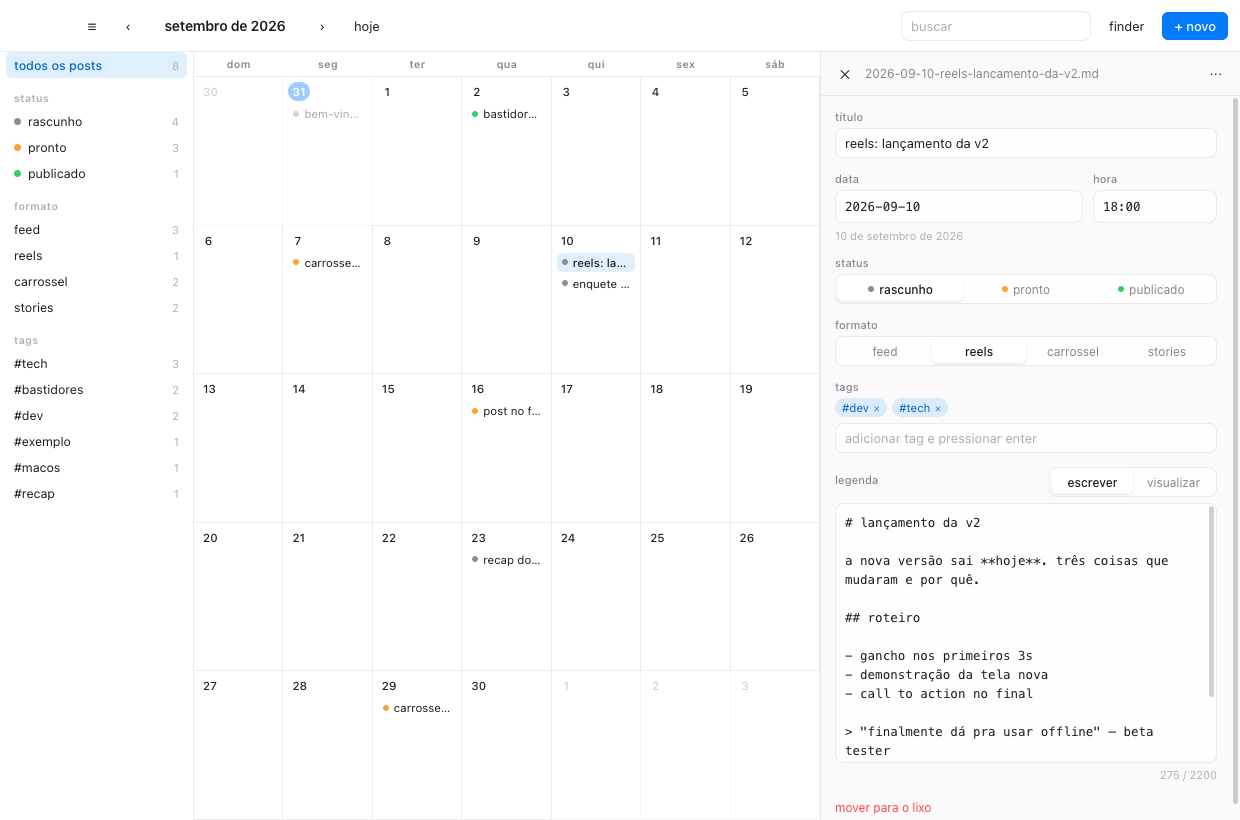
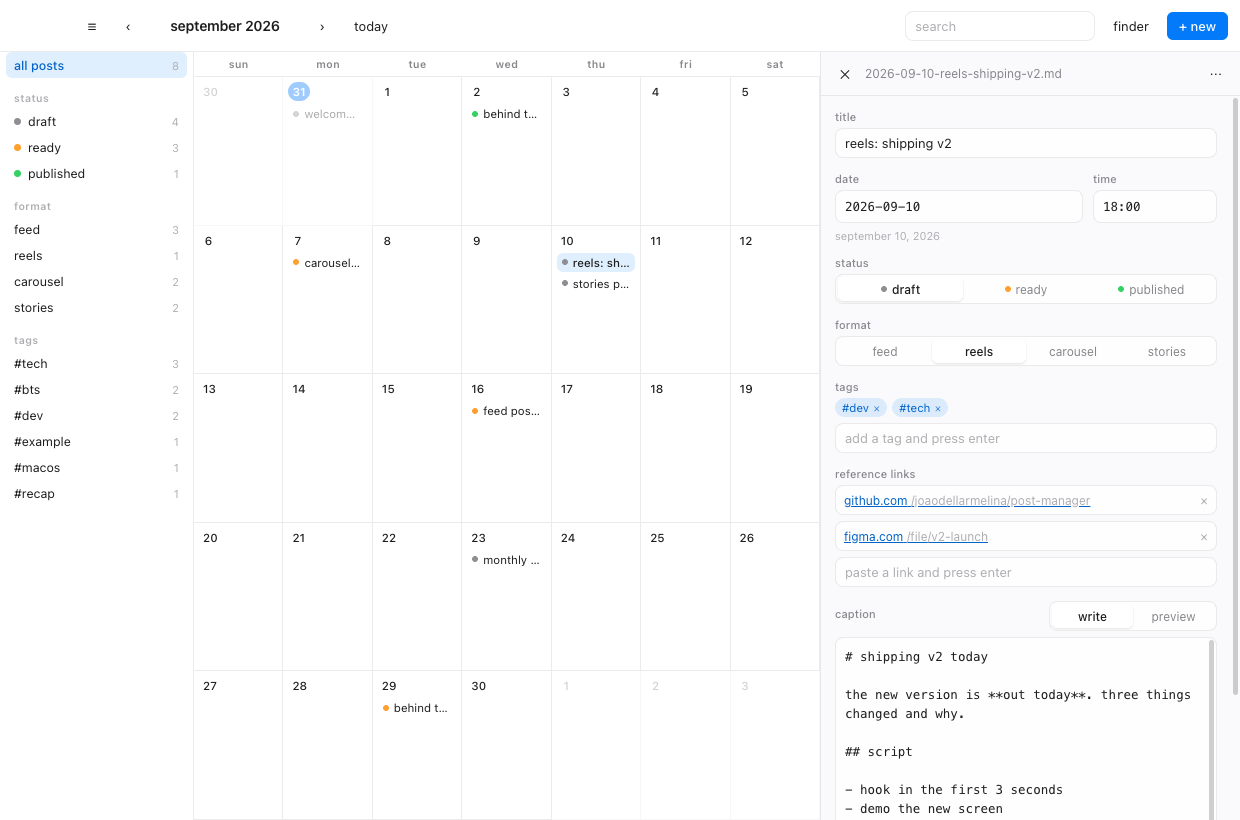
chore(release): v1.1.0
Refreshes the readme screenshots in english, documents the links field and
replaces the install instructions — an ad-hoc signed download needs the
quarantine flag cleared, which right click → open does not always do.

diff --git a/README.md b/README.md
@@ -31,14 +31,17 @@ filename is `YYYY-MM-DD-slug.md`, generated from the date and title.
 
 ```yaml
 ---
-title: 'reels: lançamento da v2'
+title: 'reels: shipping v2'
 date: '2026-09-10'
 time: '18:00'
 status: draft        # draft | ready | published
-type: reels          # feed | reels | carrossel | stories
+type: reels          # feed | reels | carousel | stories
 tags: ['#dev', '#tech']
+links:               # reference links, as many as you want
+  - 'https://github.com/joaodellarmelina/post-manager'
+  - 'https://www.figma.com/file/v2-launch'
 ---
-a nova versão sai **hoje**. três coisas que mudaram e por quê.
+the new version is **out today**. three things changed and why.
 ```
 
 change the date or title and the file gets renamed for you — no duplicates.
@@ -52,6 +55,10 @@ break the yaml and the app flags that one post in red instead of falling over.
 
 captions support headings, bold, italic, strikethrough, code, links, lists and
 quotes, with a live preview and the 2,200 character instagram limit in view.
+
+each post also keeps a list of **reference links** — the article you're reacting
+to, the figma file, the doc you're citing. paste a url, hit enter, click it later
+to open it in your browser.
 
 <p align="center">
   <img src="docs/calendar-dark.png" width="800" alt="dark mode">
@@ -89,9 +96,19 @@ that's it -- you're up and running.
 npm run dist
 ```
 
-output lands in `release/`. builds are ad-hoc signed, so the first launch needs
-right click → open (or `xattr -dr com.apple.quarantine '/Applications/post manager.app'`).
-proper signing needs a paid apple developer account.
+output lands in `release/`.
+
+## first launch
+
+builds are ad-hoc signed, not notarised — that needs a paid apple developer
+account. macOS will refuse to open a downloaded copy until you clear the
+quarantine flag:
+
+```sh
+xattr -dr com.apple.quarantine '/Applications/post manager.app'
+```
+
+then open it normally. right click → open works too on some systems.
 
 if you wanna make an addition + pr, or just wanna remix the app for yourself,
 go for it. open a pr and i'll run it on my end and build a new version :)
@@ -119,6 +136,10 @@ a few things worth knowing if you're poking around:
   can write, and the renderer can reach `window.vault`, so injection is impossible by
   construction rather than sanitized after the fact.
 - **writes are atomic** (temp file + rename) and deletes go to the trash, never `unlink`.
+- **the app is ad-hoc signed in `afterPack`.** electron ships binaries with a
+  linker-signed signature whose identifier is literally `Electron`; adding files and
+  editing Info.plist invalidates it, and macOS reports an invalid signature as
+  "app is damaged and can't be opened".
 - **the icon needs an asset catalog**, not just an `.icns` — macOS 26 draws a legacy
   icns onto a system plate, which would nest the artwork's squircle inside a second one.
   regenerate it with `npm run icon` (needs xcode).
